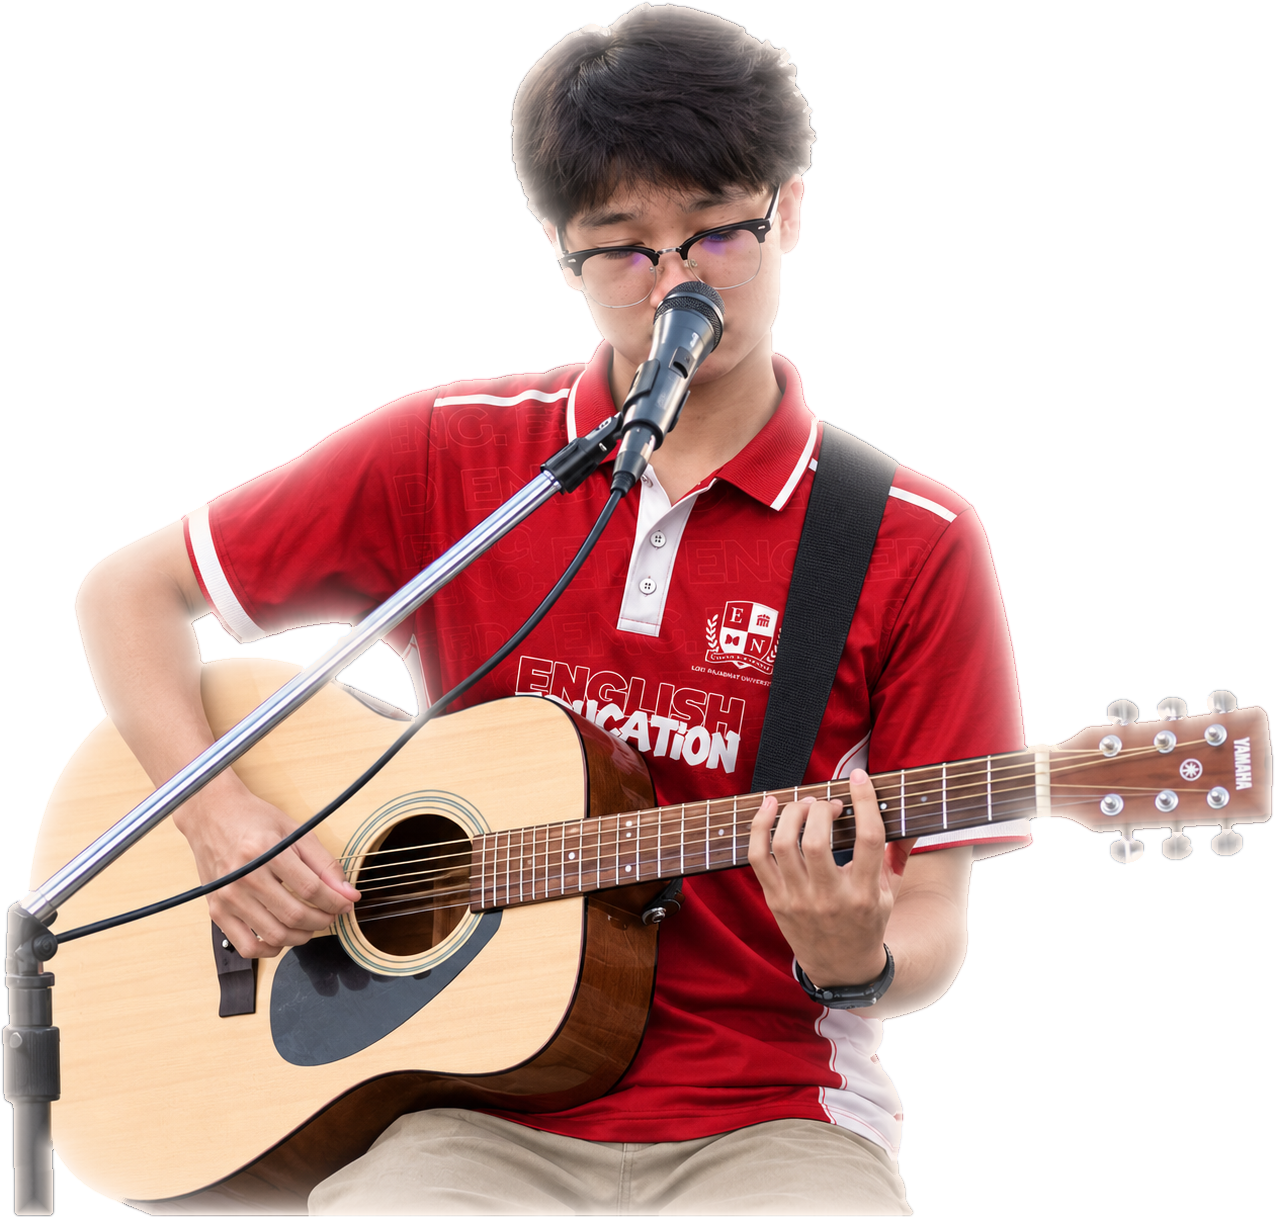
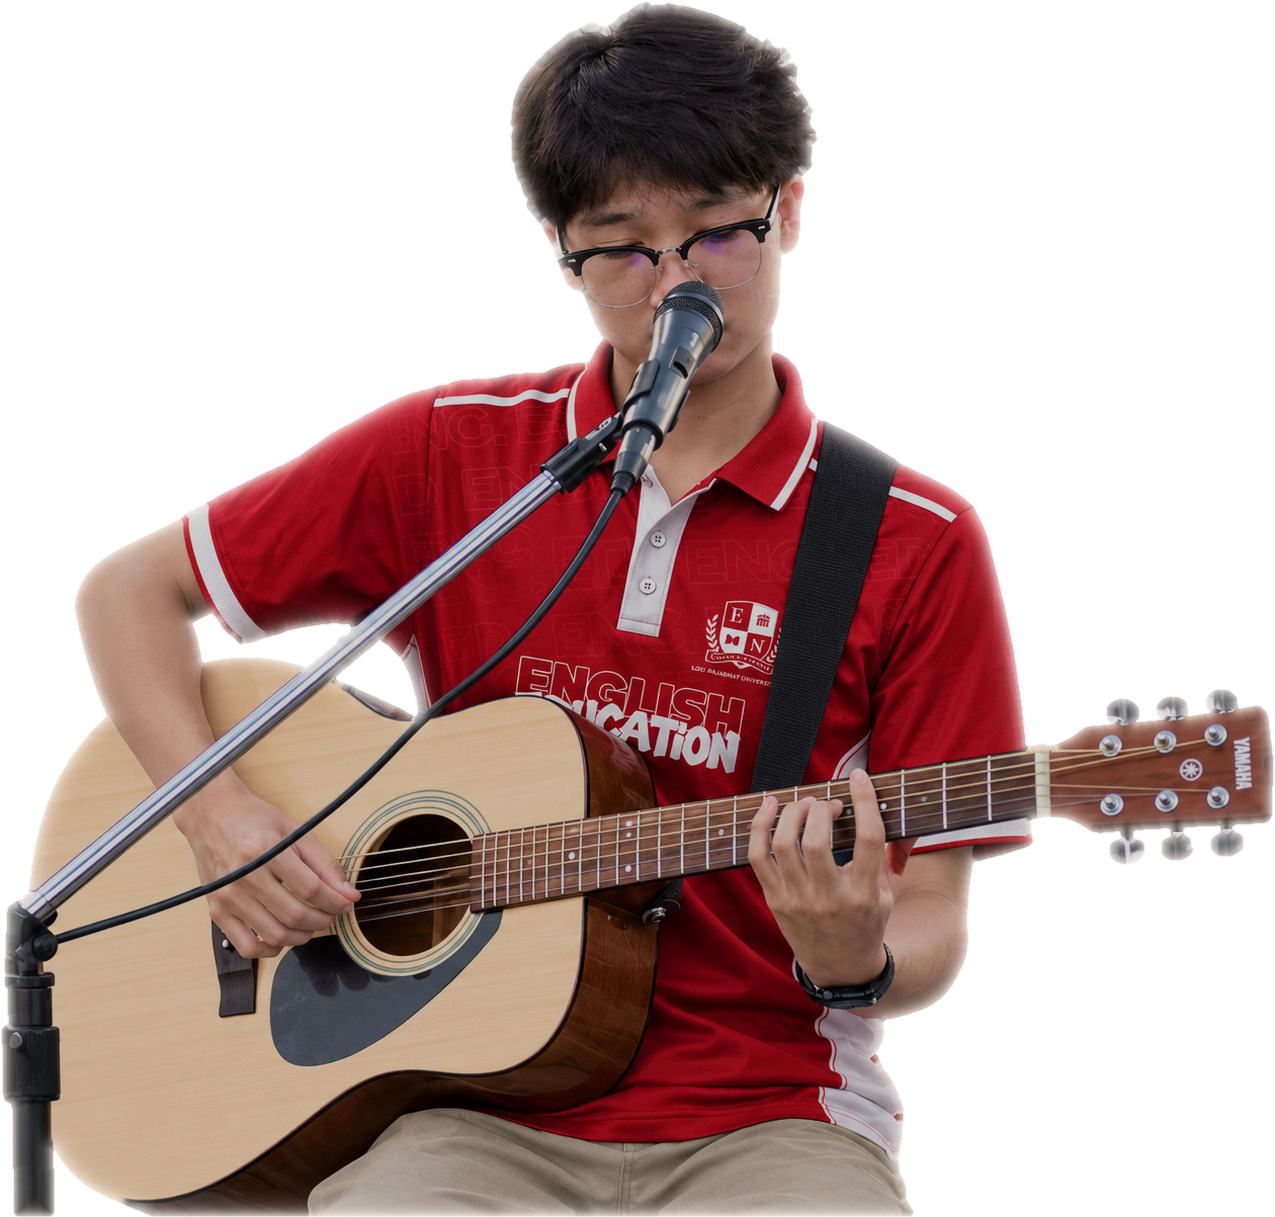
Thinner rim light, darker subject on night page
Claude-Session: https://claude.ai/code/session_013T4mUjhWdqHGCQ9HrywHeb

diff --git a/index.html b/index.html
@@ -133,7 +133,7 @@ html.dark .nav a{color:#fff}
 .pp-side{color:#fff}
 .pp-glow{position:absolute;left:50%;top:44%;width:64cqw;height:64cqw;translate:-50% -50%;border-radius:50%;background:radial-gradient(closest-side,rgba(255,255,255,.2),rgba(255,255,255,.06) 55%,rgba(255,255,255,0));opacity:0;transition:opacity 1.2s ease .6s;pointer-events:none}
 .scene.on-personal .pp-glow{opacity:1}
-.pp-photo{height:100cqh;bottom:-24cqh;filter:drop-shadow(0 0 1.4cqw rgba(255,236,226,.42)) drop-shadow(0 0 5cqw rgba(255,200,190,.22))}
+.pp-photo{height:100cqh;bottom:-24cqh;filter:drop-shadow(0 0 1.2cqw rgba(255,236,226,.34)) drop-shadow(0 0 4.5cqw rgba(255,200,190,.16))}
 
 @media (prefers-reduced-motion:reduce){
   .page,.pp-photo,.pp-side{transition-duration:.01s;transition-delay:0s}
